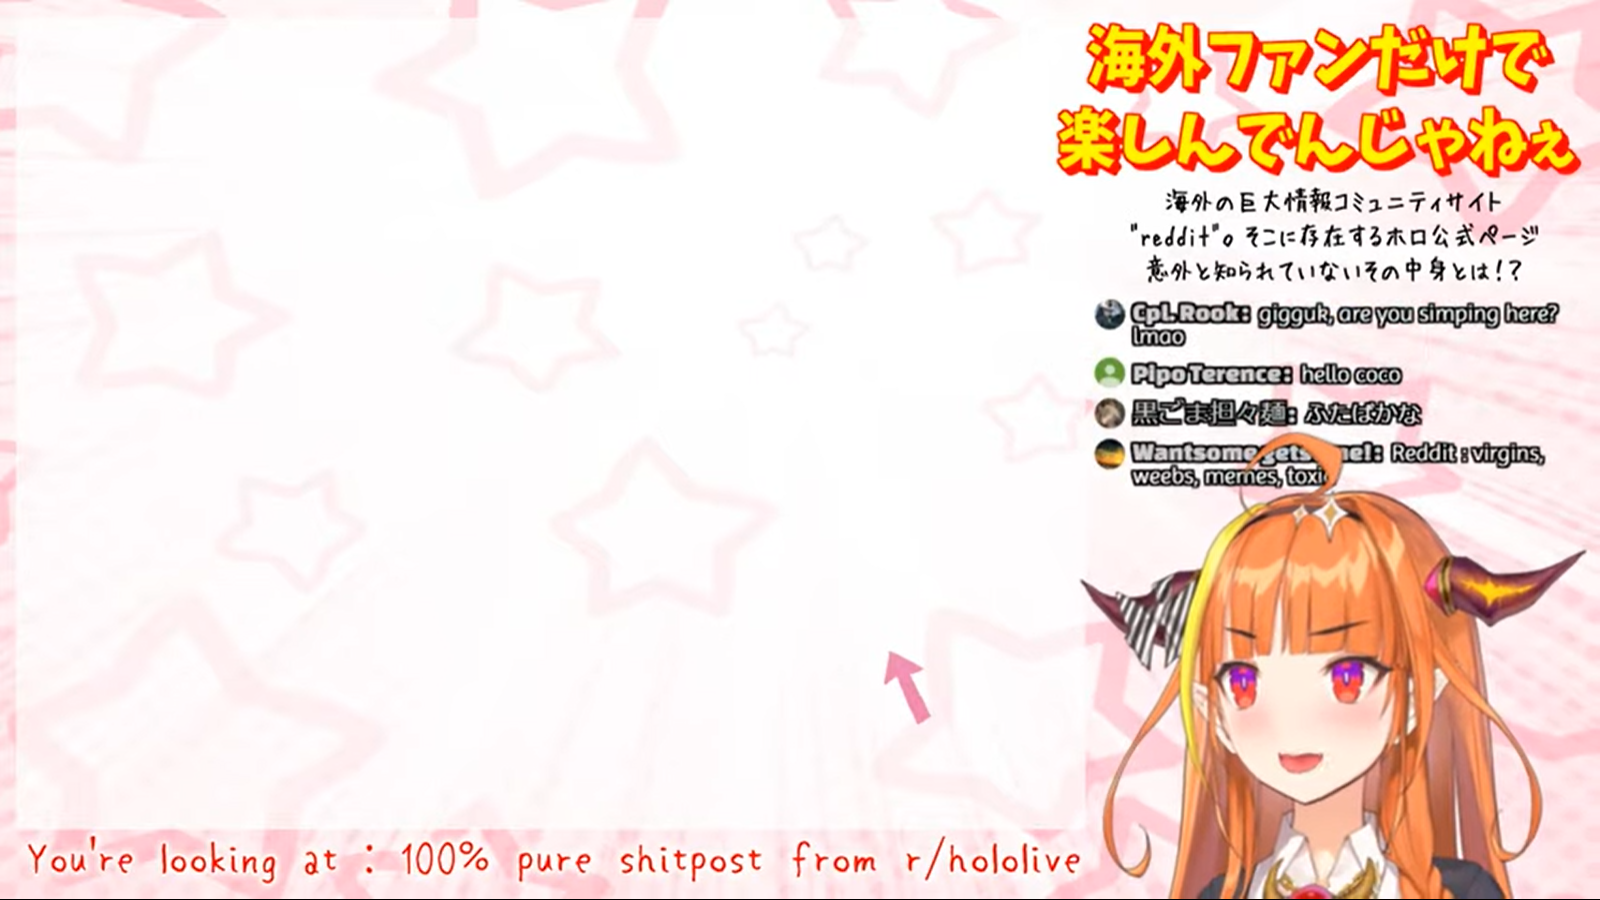
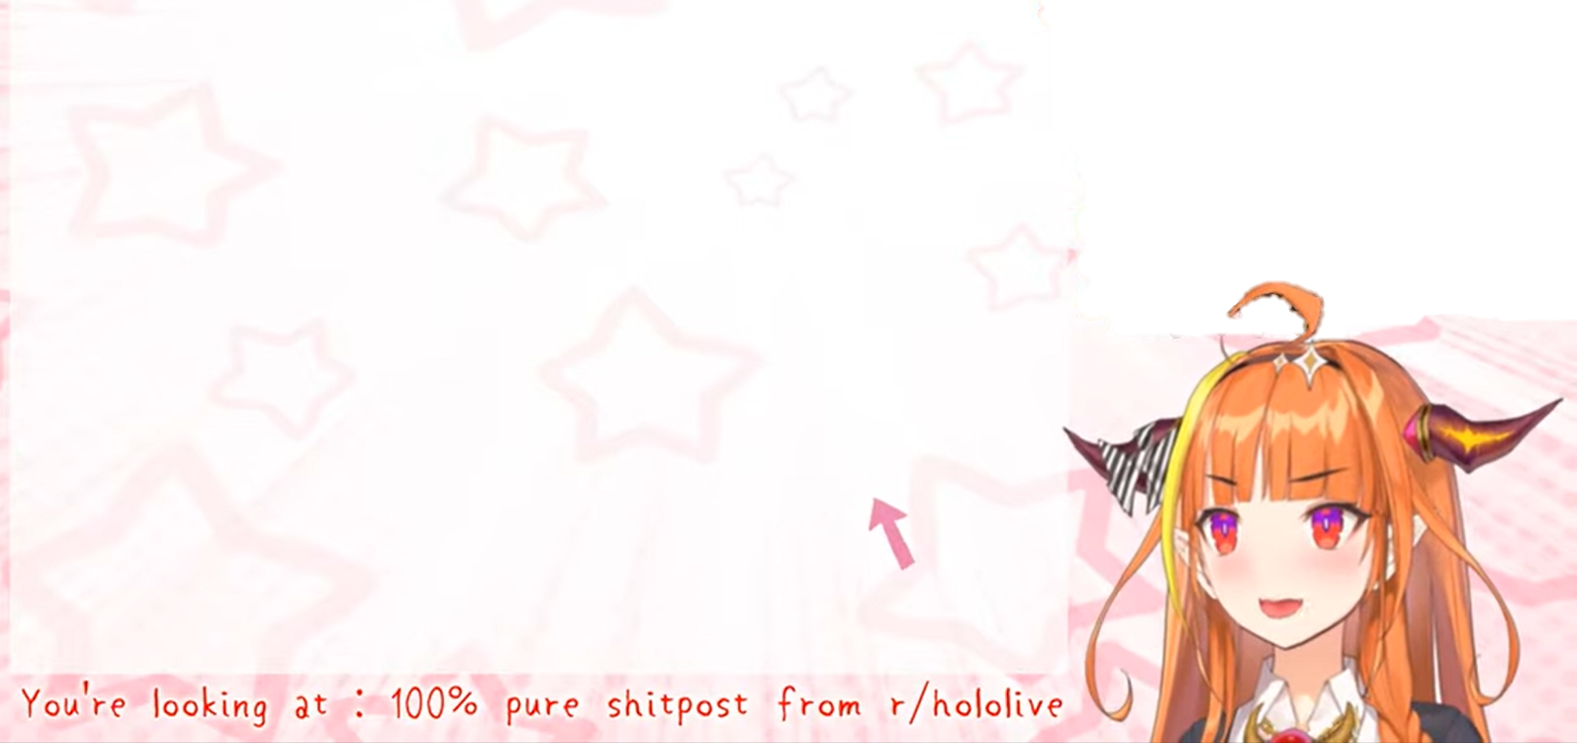
HomePage adjust background image
Make so dimensions fit entire browser height

diff --git a/src/pages/HomePage.js b/src/pages/HomePage.js
@@ -6,13 +6,14 @@ import Typography from '@material-ui/core/Typography';
 import Container from '@material-ui/core/Container';
 // Assets
 import ArrowRightAltIcon from '@material-ui/icons/ArrowRightAlt';
-import MyBackgroundImg from './maxresdefault.jpg'
+import MyBackgroundImg from './coco-meme-review.png'
 // Custom component & data
 import CustomLink from '../components/CustomLink'
 
 const useStyles = makeStyles((theme) => ({
   landingRoot: {
-    padding: theme.spacing(25, 0, 55),
+    padding: theme.spacing(50, 0, 50),
+    margin: theme.spacing(0, 10, 0)
   },
   landingText: {
     paddingRight: theme.spacing(50)
@@ -36,7 +37,7 @@ export default function HomePage(props) {
 
   return (
     <div id={id}>
-      <Container className={classes.landingRoot} style={{ backgroundImage: `url(${MyBackgroundImg})` }}>
+      <div className={classes.landingRoot} style={{ backgroundImage: `url(${MyBackgroundImg})` }}>
         <div className={classes.landingButtons}>
           <Grid container spacing={2} justify="center">
             <Grid item>
@@ -57,7 +58,7 @@ export default function HomePage(props) {
             </Grid>
           </Grid>
         </div>
-      </Container>
+      </div>
     </div>
   );
 }
